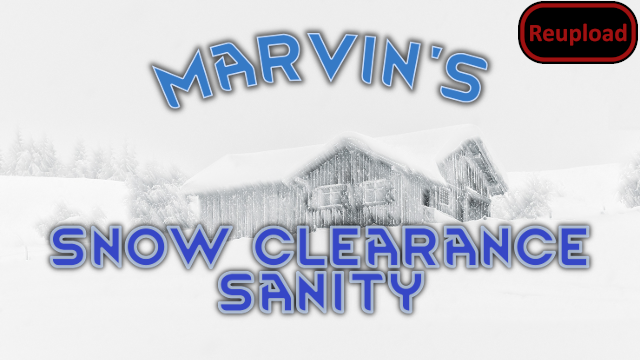
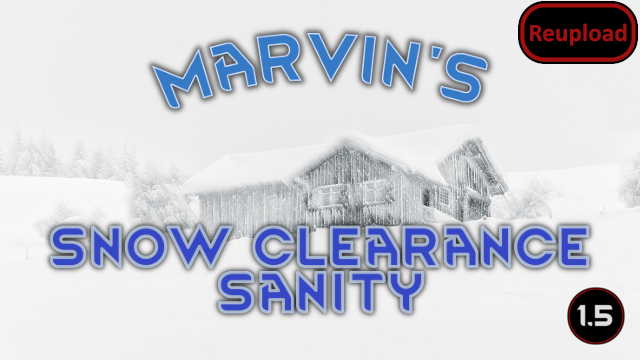
Mod updated for 1.5 and passed autotests

Changed region(s): [[0.875, 0.7944, 1.0, 0.9778]]

diff --git a/Source/SnowClearanceSanity/SnowClearanceSanity.cs b/Source/SnowClearanceSanity/SnowClearanceSanity.cs
@@ -7,7 +7,6 @@ internal class SnowClearanceSanity : Mod
 {
     public SnowClearanceSanity(ModContentPack content) : base(content)
     {
-        var harmony = new Harmony("net.marvinkosh.rimworld.mod.snowclearancesanity");
-        harmony.PatchAll();
+        new Harmony("net.marvinkosh.rimworld.mod.snowclearancesanity").PatchAll();
     }
 }

diff --git a/README.md b/README.md
@@ -36,11 +36,13 @@ If you like this mod, why not consider looking at some of my http://steamcommuni
 
 -  See if the the error persists if you just have this mod and its requirements active.
 -  If not, try adding your other mods until it happens again.
--  Post your error-log using https://steamcommunity.com/workshop/filedetails/?id=818773962]HugsLib and command Ctrl+F12
+-  Post your error-log using https://steamcommunity.com/workshop/filedetails/?id=818773962]HugsLib or the standalone https://steamcommunity.com/sharedfiles/filedetails/?id=2873415404]Uploader and command Ctrl+F12
 -  For best support, please use the Discord-channel for error-reporting.
 -  Do not report errors by making a discussion-thread, I get no notification of that.
 -  If you have the solution for a problem, please post it to the GitHub repository.
+-  Use https://github.com/RimSort/RimSort/releases/latest]RimSort to sort your mods
 
 
 
+https://steamcommunity.com/sharedfiles/filedetails/changelog/2314284273]![Image](https://img.shields.io/github/v/release/emipa606/SnowClearanceSanity?label=latest%20version&style=plastic&color=9f1111&labelColor=black)
 
